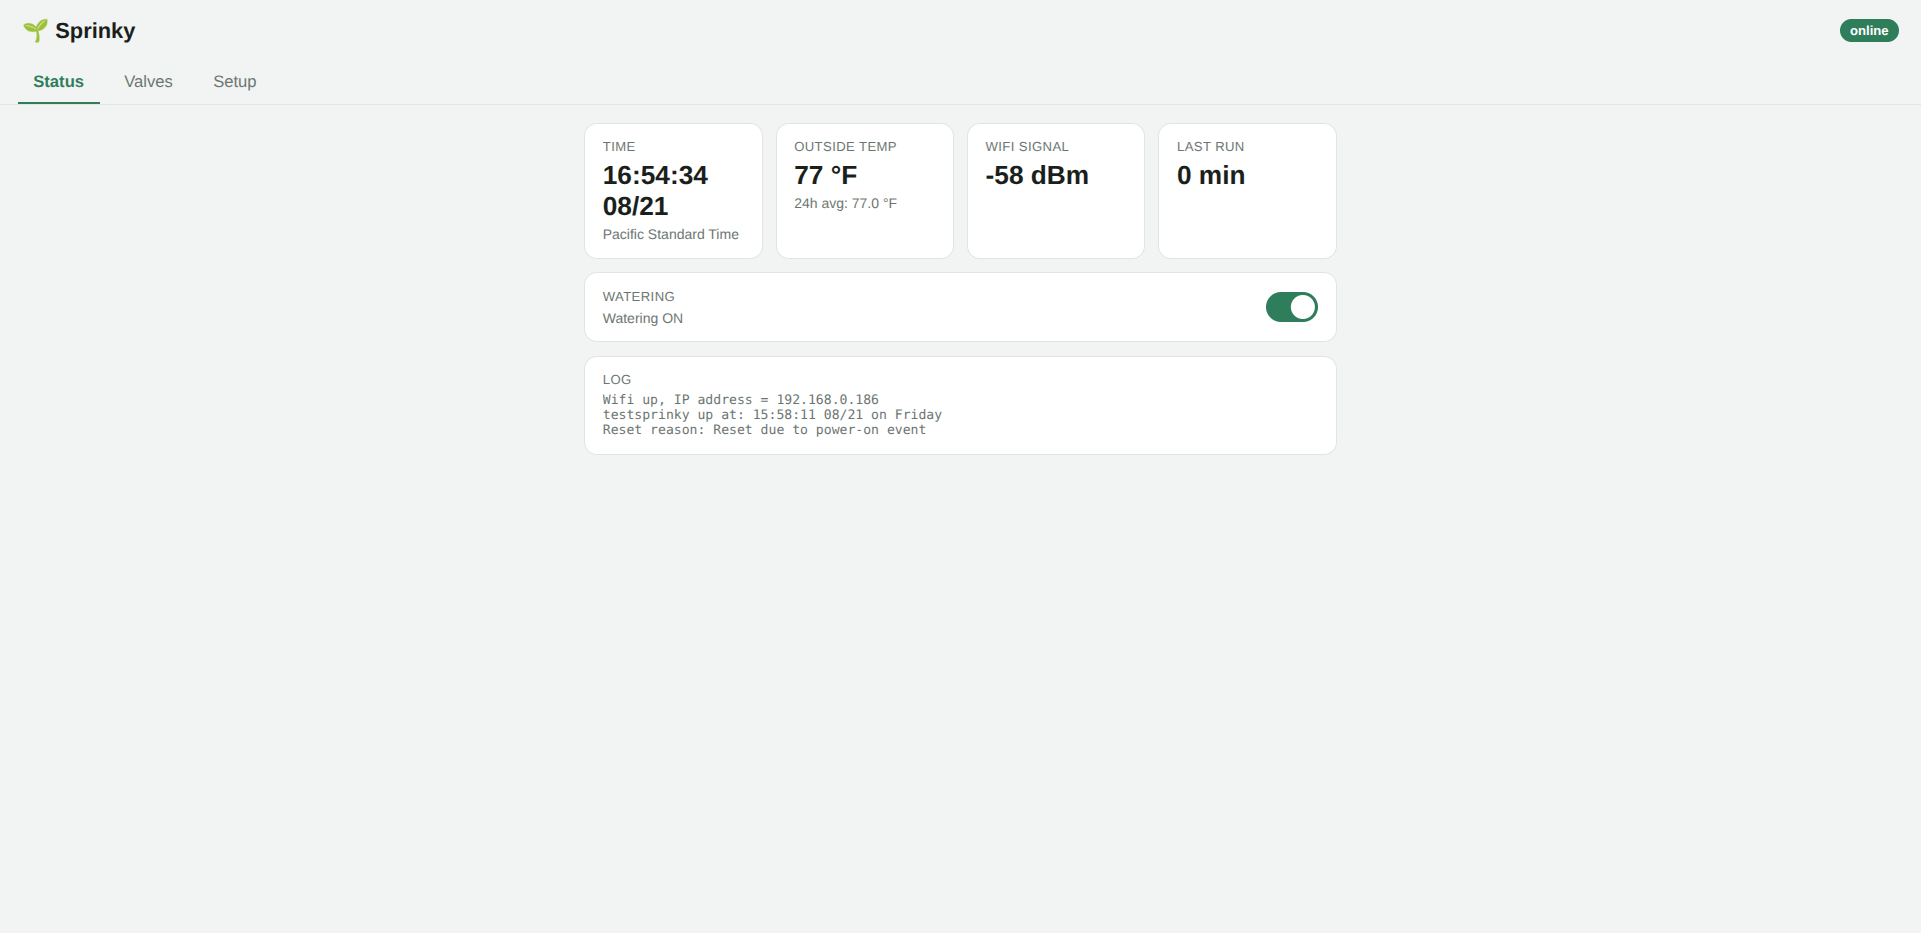
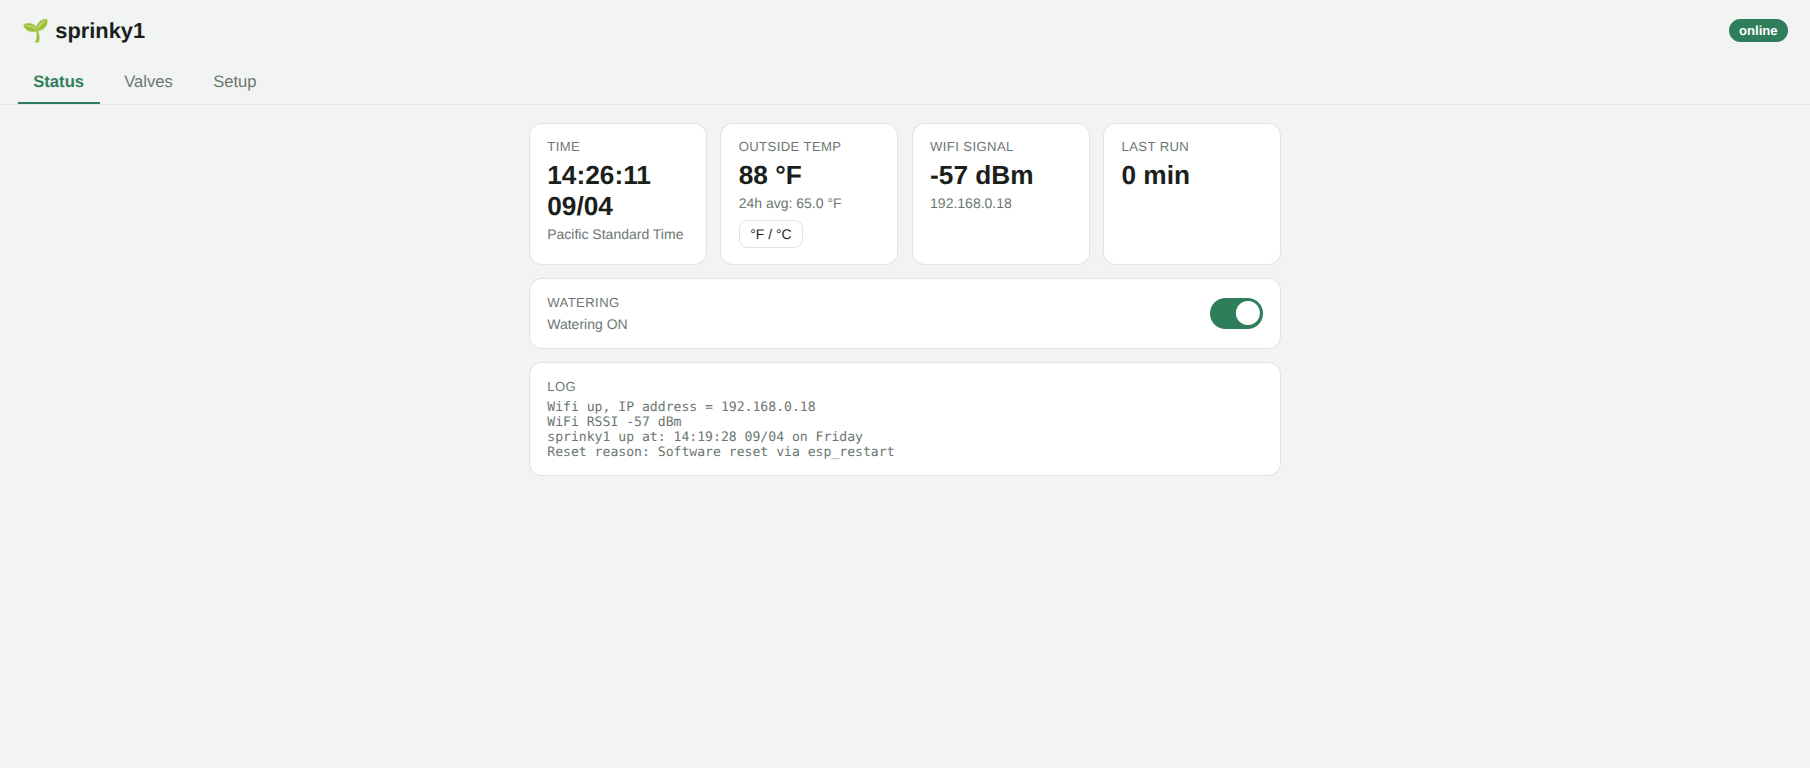
Move README.md to project root so it shows on the GitHub project page
Also updates it to match the current dashboard (IP address on the
Status tab, 24-hour time hint on the Schedule card) and current
config.h (RELAY_ACTIVE/RELAY_INACTIVE, not ON/OFF), and swaps in the
updated status/valves screenshots. src/CLAUDE.md's project-layout
notes are updated to match the new README location.

diff --git a/README.md b/README.md
@@ -4,8 +4,8 @@ A WiFi-connected landscape sprinkler controller for the ESP32 and ESP8266,
 with a clean web dashboard and temperature-adjusted watering times.
 
 <p align="center">
-  <img src="../images/status_page.png" alt="Status tab of the Sprinky dashboard" width="32%">
-  <img src="../images/setup_page.png" alt="Setup tab of the Sprinky dashboard" width="32%">
+  <img src="images/status_page.png" alt="Status tab of the Sprinky dashboard" width="32%">
+  <img src="images/setup_page.png" alt="Setup tab of the Sprinky dashboard" width="32%">
 </p>
 
 ## Why Sprinky is easy to set up
@@ -31,7 +31,7 @@ WiFi setup, temperature scaling, OTA updates — works identically
 regardless of which board you used.
 
 <p align="center">
-  <img src="../images/controller_board.jpg" alt="An example 8-relay ESP32 controller board wired up in an enclosure" width="60%">
+  <img src="images/controller_board.jpg" alt="An example 8-relay ESP32 controller board wired up in an enclosure" width="60%">
   <br>
   <em>An example 8-relay board wired into a weatherproof enclosure — any similar board works.</em>
 </p>
@@ -56,9 +56,9 @@ control everything from a web page served by the device itself.
 ## Quick start
 
 This is a [PlatformIO](https://platformio.org/) project. There is no
-`.ino` sketch — the firmware is the `src/*.cpp` / `src/*.h` files (this
-README and `config.h` are in `src/` too), and all library versions are
-pinned in `platformio.ini`.
+`.ino` sketch — the firmware is the `src/*.cpp` / `src/*.h` files
+(`config.h` is in `src/` too), and all library versions are pinned in
+`platformio.ini`.
 
 1. **Install PlatformIO** — either the
    [PlatformIO IDE extension for VS Code](https://platformio.org/install/ide?install=vscode)
@@ -96,23 +96,25 @@ re-flashing required.
 Once connected, the web dashboard has three tabs:
 
 - **Status** — current time, outside temperature (with a °F / °C toggle
-  button), 24-hour average temperature, WiFi signal strength, last
-  completed run's total duration, a master watering on/off switch, and a
-  live debug log.
+  button), 24-hour average temperature, WiFi signal strength and the
+  device's IP address, last completed run's total duration, a master
+  watering on/off switch, and a live debug log.
 - **Valves** — a "test" button per valve (runs it for up to a minute,
   useful for checking wiring or manually watering one zone), an editable
   name and run-time slider per valve, which days of the week the schedule
-  is allowed to run on, the daily start time, and a "Run Watering Sequence
-  Now" button to trigger the full schedule on demand. This tab also has a
-  **Temperature scaling** on/off toggle and a **season profile** selector
-  (see [Seasonal schedule profiles](#seasonal-schedule-profiles) below).
+  is allowed to run on, and the daily start time (entered in 24-hour time,
+  with a live 12-hour readout next to it so an evening schedule can't be
+  mistaken for a morning one), plus a "Run Watering Sequence Now" button to
+  trigger the full schedule on demand. This tab also has a **Temperature
+  scaling** on/off toggle and a **season profile** selector (see
+  [Seasonal schedule profiles](#seasonal-schedule-profiles) below).
 - **Setup** — WiFi credentials, time zone selection (US zones plus common
   world zones — UK/GMT, Central European, Moscow, Australia Eastern,
   Brazil, South Africa, Gulf/Dubai, India, China, Japan), a link to the
   firmware update page, and a reboot button.
 
 <p align="center">
-  <img src="../images/valves_page.png" alt="Valves tab of the Sprinky dashboard" width="60%">
+  <img src="images/valve_page.png" alt="Valves tab of the Sprinky dashboard" width="60%">
 </p>
 
 
@@ -176,7 +178,7 @@ All hardware-specific settings live in `config.h`:
 | `HOSTNAME` | The device's name — used for its WiFi access point SSID and its `.local` mDNS address. Give each controller a unique name if you run more than one. |
 | `RELAY8` | Define this if you have an 8-valve board; leave it commented out for a 4-valve board. |
 | `relay[]` | **The important one.** GPIO pin number for each relay/valve, in order. Must match your specific board's wiring. |
-| `ON` / `OFF` | Some relay boards are active-low (a `LOW` signal turns the relay on) and some are active-high. If your valves come on backwards from what you'd expect, swap these. |
+| `RELAY_ACTIVE` / `RELAY_INACTIVE` | Some relay boards are active-low (a `LOW` signal turns the relay on) and some are active-high. If your valves come on backwards from what you'd expect, swap these. |
 | `DS18B20` | Define this if you've wired up a DS18B20 digital temperature sensor. Leave undefined to read from a simple analog diode on the ADC pin instead (works with no sensor attached too, though readings won't be meaningful). If `DS18B20` is defined but the sensor isn't detected at boot, readings fall back to a fixed default value. |
 
 Everything else — the web dashboard, scheduling logic, OTA update

diff --git a/src/CLAUDE.md b/src/CLAUDE.md
@@ -29,16 +29,18 @@ dashboard (custom `ESPAsyncWebServer` + JSON REST API, embedded HTML/CSS/JS —
 **no ESPUI, no Home Assistant/MQTT**) for control and configuration.
 `ElegantOTA` is mounted on the same web server for firmware updates.
 
-`README.md` (in this `src/` directory) is the user-facing setup guide —
-hardware requirements, flashing, first-boot Wi-Fi provisioning, dashboard
-walkthrough, screenshots under `../images/`. Read it for onboarding-flow
-context; this file focuses on architecture for making code changes.
+`README.md` (at the project root, so it renders on the GitHub project page)
+is the user-facing setup guide — hardware requirements, flashing, first-boot
+Wi-Fi provisioning, dashboard walkthrough, screenshots under `images/`. Read
+it for onboarding-flow context; this file focuses on architecture for making
+code changes.
 
 ## Project layout
 
 This is a **PlatformIO** project — there is **no `.ino` sketch**. The firmware
 is the `.cpp`/`.h` files, and (because PlatformIO's default `src_dir` is `src/`)
-they live in `src/` alongside `config.h`, `README.md`, `LICENSE`, and this file:
+they live in `src/` alongside `config.h`, `LICENSE`, and this file
+(`README.md` lives at the project root, not in `src/`):
 
 ```
 platformio.ini          project + env + dependency definitions
@@ -288,7 +290,5 @@ must re-populate them later (e.g. a season switch) has to call the shared
 
 - `src/build/` — stale pre-PlatformIO `arduino-cli` output, gitignored, ignore.
 - The jammed-valve "buzz" loop in `relayOn()` is commented out.
-- Screenshots in `../images/` predate the °F/°C toggle, the temperature-scaling
-  toggle, and the seasonal-profile selector.
 - `tempScaling` is a single global, deliberately not per-season (it's a
   sensor-behavior switch, not a schedule value).
